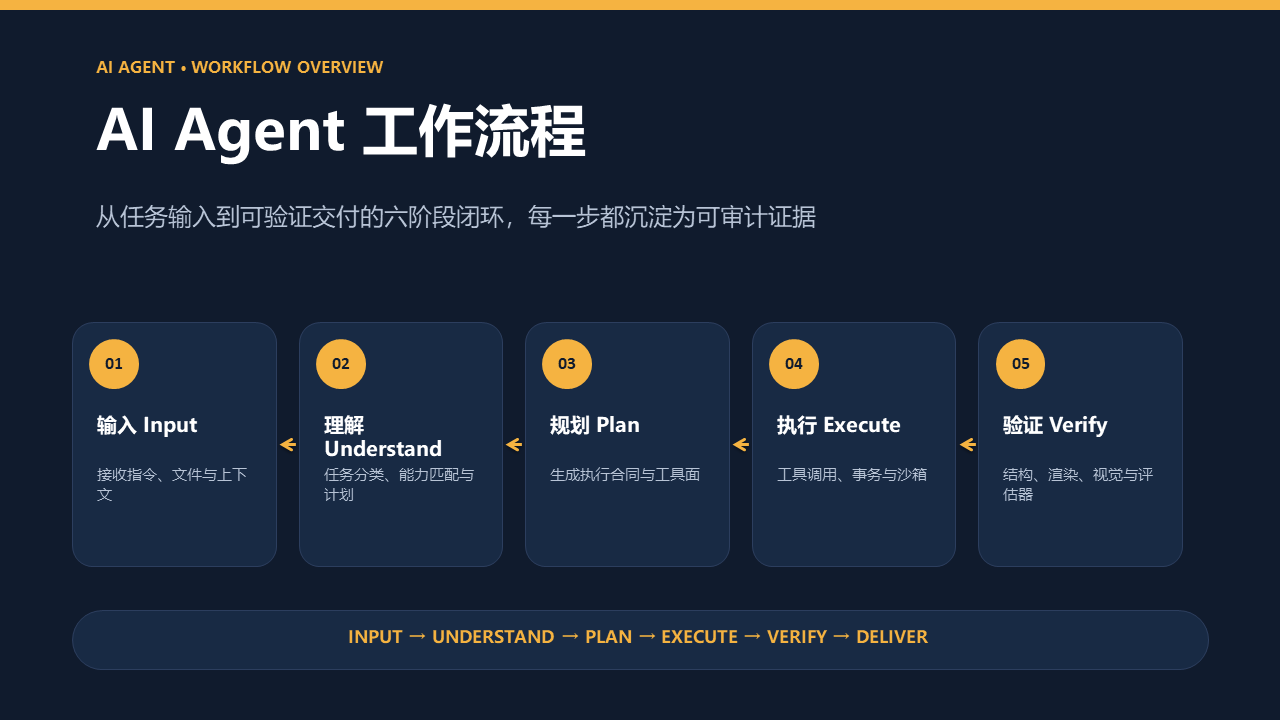
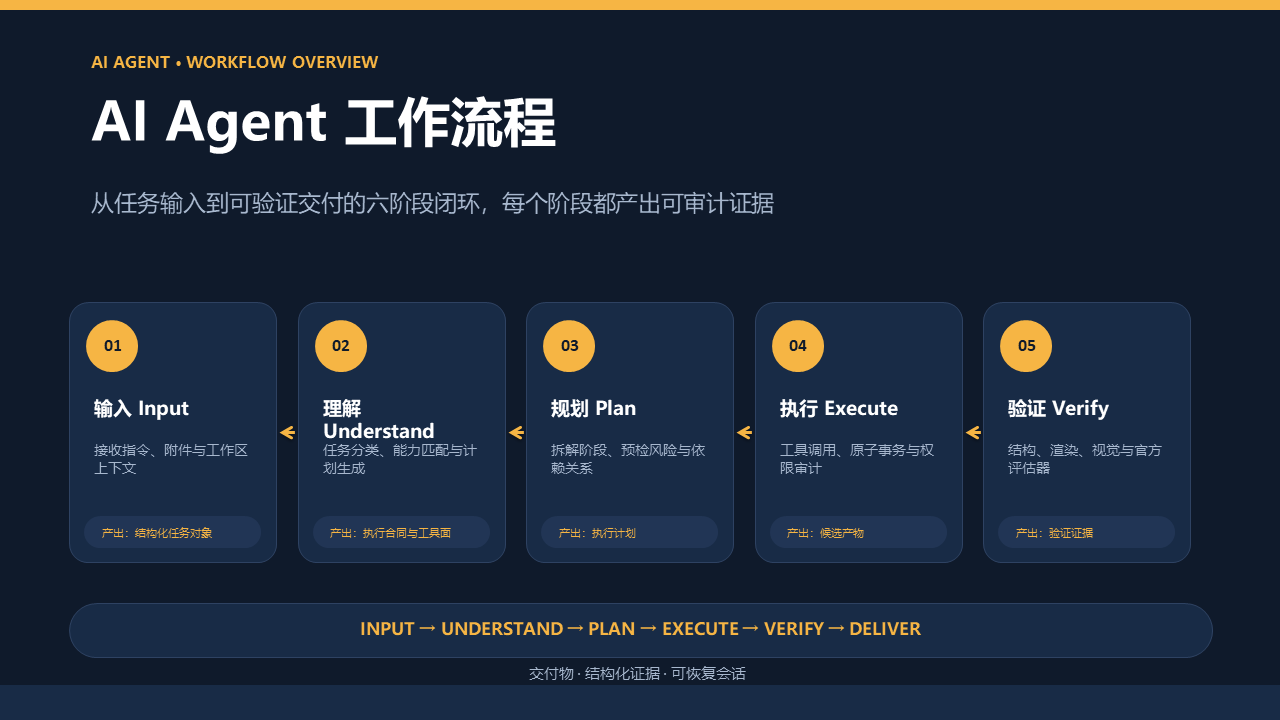
AI Agent workflow v3: KPI strip, metric chips, denser dashboard content

diff --git a/benchmarks/manual_tasks/ai-agent-workflow/build_deck_v3.py b/benchmarks/manual_tasks/ai-agent-workflow/build_deck_v3.py
@@ -1,0 +1,172 @@
+"""AI Agent workflow deck v3.
+
+Page 1: native PPTX shapes, 5-step pipeline with per-step deliverables and
+a two-part delivery bar.
+Page 2: HTML-dashboard style with nav, hero KPI strip, 2x2 phase cards with
+status/progress/actions, and footer.
+"""
+from pathlib import Path
+from pptx import Presentation
+from pptx.util import Inches, Pt
+from pptx.dml.color import RGBColor
+from pptx.enum.shapes import MSO_SHAPE, MSO_CONNECTOR
+from pptx.enum.text import PP_ALIGN, MSO_ANCHOR
+
+OUT = Path(r"E:\project\agent\xiaopu\workspace\iteration_runs\tasks\ai-agent-workflow\output\ai_agent_workflow.pptx")
+OUT.parent.mkdir(parents=True, exist_ok=True)
+
+NAVY = RGBColor(0x0F, 0x1A, 0x2B)
+NAVY2 = RGBColor(0x18, 0x2B, 0x46)
+WHITE = RGBColor(0xFF, 0xFF, 0xFF)
+MUTED = RGBColor(0xA8, 0xB8, 0xCE)
+AMBER = RGBColor(0xF6, 0xB5, 0x44)
+INK = RGBColor(0x22, 0x2A, 0x35)
+GRAY = RGBColor(0x66, 0x70, 0x7D)
+PAPER = RGBColor(0xF3, 0xF5, 0xF8)
+CARD = RGBColor(0xFF, 0xFF, 0xFF)
+BORDER = RGBColor(0xDF, 0xE5, 0xEC)
+BLUE = RGBColor(0x3B, 0x82, 0xF6)
+GREEN = RGBColor(0x10, 0xB9, 0x81)
+ORANGE = RGBColor(0xF9, 0x7A, 0x2E)
+PURPLE = RGBColor(0x8B, 0x5C, 0xF6)
+CYAN = RGBColor(0x06, 0xB6, 0xD4)
+
+prs = Presentation()
+prs.slide_width = Inches(13.333)
+prs.slide_height = Inches(7.5)
+BLANK = prs.slide_layouts[6]
+
+
+def rect(slide, x, y, w, h, fill, line=None, round_=False, radius=0.12):
+    kind = MSO_SHAPE.ROUNDED_RECTANGLE if round_ else MSO_SHAPE.RECTANGLE
+    sh = slide.shapes.add_shape(kind, Inches(x), Inches(y), Inches(w), Inches(h))
+    sh.fill.solid(); sh.fill.fore_color.rgb = fill
+    if line is None:
+        sh.line.fill.background()
+    else:
+        sh.line.color.rgb = line; sh.line.width = Pt(0.75)
+    sh.shadow.inherit = False
+    if round_:
+        try:
+            sh.adjustments[0] = radius
+        except Exception:
+            pass
+    return sh
+
+
+def text(slide, x, y, w, h, value, size, color, bold=False, align=PP_ALIGN.LEFT,
+         anchor=MSO_ANCHOR.TOP, spacing=1.0, font="Microsoft YaHei"):
+    box = slide.shapes.add_textbox(Inches(x), Inches(y), Inches(w), Inches(h))
+    tf = box.text_frame
+    tf.word_wrap = True
+    tf.vertical_anchor = anchor
+    for i, line in enumerate(value.split("\n")):
+        p = tf.paragraphs[0] if i == 0 else tf.add_paragraph()
+        p.alignment = align
+        p.line_spacing = spacing
+        r = p.add_run(); r.text = line
+        r.font.size = Pt(size); r.font.bold = bold; r.font.color.rgb = color; r.font.name = font
+    return box
+
+
+def arrow(slide, x1, y1, x2, y2, color=AMBER):
+    c = slide.shapes.add_connector(MSO_CONNECTOR.STRAIGHT, Inches(x1), Inches(y1), Inches(x2), Inches(y2))
+    c.line.color.rgb = color; c.line.width = Pt(2)
+    ln = c.line._get_or_add_ln()
+    ln.append(ln.makeelement("{http://schemas.openxmlformats.org/drawingml/2006/main}headEnd",
+                             {"type": "arrow", "w": "med", "len": "med"}))
+
+
+# ---------------- page 1 ----------------
+s1 = prs.slides.add_slide(BLANK)
+rect(s1, 0, 0, 13.333, 7.5, NAVY)
+rect(s1, 0, 0, 13.333, 0.10, AMBER)
+rect(s1, 0, 7.14, 13.333, 0.36, NAVY2)
+text(s1, 0.85, 0.50, 11.6, 0.4, "AI AGENT · WORKFLOW OVERVIEW", 12, AMBER, True)
+text(s1, 0.85, 0.88, 11.6, 1.0, "AI Agent 工作流程", 40, WHITE, True)
+text(s1, 0.85, 1.92, 11.6, 0.55, "从任务输入到可验证交付的六阶段闭环，每个阶段都产出可审计证据", 17, MUTED)
+text(s1, 0.85, 6.88, 11.6, 0.30, "交付物 · 结构化证据 · 可恢复会话", 11, MUTED, False, PP_ALIGN.CENTER)
+
+steps = [
+    ("01", "输入 Input", "接收指令、附件与工作区上下文", "产出：结构化任务对象"),
+    ("02", "理解 Understand", "任务分类、能力匹配与计划生成", "产出：执行合同与工具面"),
+    ("03", "规划 Plan", "拆解阶段、预检风险与依赖关系", "产出：执行计划"),
+    ("04", "执行 Execute", "工具调用、原子事务与权限审计", "产出：候选产物"),
+    ("05", "验证 Verify", "结构、渲染、视觉与官方评估器", "产出：验证证据"),
+]
+x0, y0, w, h, gap = 0.72, 3.15, 2.16, 2.70, 0.22
+for i, (num, title, desc, deliver) in enumerate(steps):
+    x = x0 + i * (w + gap)
+    rect(s1, x, y0, w, h, NAVY2, RGBColor(0x2E, 0x42, 0x62), True, 0.09)
+    chip = rect(s1, x + 0.18, y0 + 0.18, 0.54, 0.54, AMBER, None, True, 0.5)
+    tf = chip.text_frame; tf.word_wrap = False
+    p = tf.paragraphs[0]; p.alignment = PP_ALIGN.CENTER
+    r = p.add_run(); r.text = num; r.font.size = Pt(13); r.font.bold = True; r.font.color.rgb = NAVY
+    text(s1, x + 0.16, y0 + 0.92, w - 0.32, 0.42, title, 14.5, WHITE, True)
+    text(s1, x + 0.16, y0 + 1.40, w - 0.32, 0.75, desc, 10.5, MUTED, spacing=1.04)
+    rect(s1, x + 0.16, y0 + 2.22, w - 0.32, 0.34, RGBColor(0x21, 0x35, 0x55), None, True, 0.5)
+    text(s1, x + 0.24, y0 + 2.28, w - 0.48, 0.22, deliver, 8.5, AMBER)
+    if i < len(steps) - 1:
+        arrow(s1, x + w + 0.03, y0 + h / 2, x + w + gap - 0.03, y0 + h / 2)
+
+rect(s1, 0.72, 6.28, 11.90, 0.56, NAVY2, RGBColor(0x2E, 0x42, 0x62), True, 0.5)
+text(s1, 0.92, 6.40, 11.5, 0.34, "INPUT → UNDERSTAND → PLAN → EXECUTE → VERIFY → DELIVER", 12.5, AMBER, True, PP_ALIGN.CENTER)
+
+# ---------------- page 2 ----------------
+s2 = prs.slides.add_slide(BLANK)
+rect(s2, 0, 0, 13.333, 7.5, PAPER)
+rect(s2, 0, 0, 13.333, 0.78, CARD, BORDER)
+rect(s2, 0.55, 0.20, 0.38, 0.38, BLUE, None, True, 0.5)
+text(s2, 1.08, 0.16, 3.2, 0.45, "AI Agent Console", 15, INK, True)
+text(s2, 4.70, 0.25, 2.0, 0.32, "● 系统在线", 10.5, GREEN, True)
+rect(s2, 10.55, 0.19, 2.25, 0.42, BLUE, None, True, 0.5)
+text(s2, 10.55, 0.26, 2.25, 0.30, "＋ 新建任务", 11.5, WHITE, True, PP_ALIGN.CENTER)
+
+text(s2, 0.75, 0.98, 11.8, 0.52, "工作台 · 四阶段运行视图", 25, INK, True)
+text(s2, 0.75, 1.48, 11.8, 0.38, "复杂任务被拆解为可验证阶段，状态、指标与证据实时可见", 12.5, GRAY)
+
+kpis = [
+    ("1.2s", "平均响应", BLUE), ("98.2%", "任务完成率", GREEN),
+    ("99.7%", "工具调用成功率", ORANGE), ("100%", "证据覆盖率", PURPLE),
+]
+kw = 2.86; kgap = 0.22; kx = 0.75; ky = 1.98
+for i, (value, label, color) in enumerate(kpis):
+    x = kx + i * (kw + kgap)
+    rect(s2, x, ky, kw, 0.88, CARD, BORDER, True, 0.10)
+    rect(s2, x, ky, 0.08, 0.88, color)
+    text(s2, x + 0.22, ky + 0.10, kw - 0.4, 0.34, value, 19, INK, True)
+    text(s2, x + 0.22, ky + 0.50, kw - 0.4, 0.26, label, 10, GRAY)
+
+cards = [
+    ("INPUT", "输入 Input", "01", BLUE, "接收指令、附件与工作区上下文，完成意图澄清与队列排序。",
+     ["自然语言与多模态输入", "自动发现任务相关文件", "生成结构化任务对象"], "12+", "输入类型"),
+    ("UNDERSTAND", "理解 Understand", "02", GREEN, "解析任务语义，匹配类型、能力与执行合同。",
+     ["任务分类与 Skill 选择", "能力与工具面解析", "风险与依赖预检"], "8", "任务类型"),
+    ("EXECUTE", "执行 Execute", "03", ORANGE, "在阶段工具面内执行修改，全部变更走原子事务与审计。",
+     ["阶段化工具准入", "原子批量事务", "失败自动回滚"], "100%", "事务回滚"),
+    ("VERIFY", "验证 Verify", "04", PURPLE, "以结构、渲染、视觉与官方评估器四层证据确认交付质量。",
+     ["反例定位与局部修复", "证据新鲜度管理", "交付前强制 gate"], "4", "证据层"),
+]
+positions = [(0.75, 3.02), (6.90, 3.02), (0.75, 5.72), (6.90, 5.72)]
+cw, ch = 5.70, 2.48
+for (tag, title, num, accent, desc, bullets, metric, metric_label), (cx, cy) in zip(cards, positions):
+    rect(s2, cx, cy, cw, ch, CARD, BORDER, True, 0.06)
+    rect(s2, cx, cy, 0.09, ch, accent)
+    rect(s2, cx + 0.30, cy + 0.22, 0.62, 0.62, accent, None, True, 0.18)
+    text(s2, cx + 0.30, cy + 0.30, 0.62, 0.45, num, 14, WHITE, True, PP_ALIGN.CENTER)
+    text(s2, cx + 1.08, cy + 0.20, 2.6, 0.40, title, 16, INK, True)
+    rect(s2, cx + cw - 1.50, cy + 0.28, 1.20, 0.30, PAPER, None, True, 0.5)
+    text(s2, cx + cw - 1.50, cy + 0.32, 1.20, 0.22, tag, 8.5, accent, True, PP_ALIGN.CENTER)
+    text(s2, cx + 0.32, cy + 0.96, cw - 0.64, 0.58, desc, 11, GRAY, spacing=1.04)
+    bullets = "\n".join("•  " + b for b in bullets)
+    text(s2, cx + 0.32, cy + 1.56, cw - 1.30, 0.70, bullets, 10, INK, spacing=1.02)
+    rect(s2, cx + cw - 1.10, cy + 1.56, 0.78, 0.70, PAPER, BORDER, True, 0.10)
+    text(s2, cx + cw - 1.10, cy + 1.64, 0.78, 0.28, metric, 14, accent, True, PP_ALIGN.CENTER)
+    text(s2, cx + cw - 1.10, cy + 1.96, 0.78, 0.22, metric_label, 7.5, GRAY, False, PP_ALIGN.CENTER)
+    text(s2, cx + 0.32, cy + 2.30, 2.0, 0.18, "查看日志 →", 9, accent, True)
+
+rect(s2, 0, 7.06, 13.333, 0.44, CARD, BORDER)
+text(s2, 0.75, 7.13, 11.8, 0.30, "AI Agent Console · 运行状态正常 · 所有阶段证据已归档", 10, GRAY, False, PP_ALIGN.CENTER)
+
+prs.save(OUT)
+print("saved", OUT, "slides", len(prs.slides))
